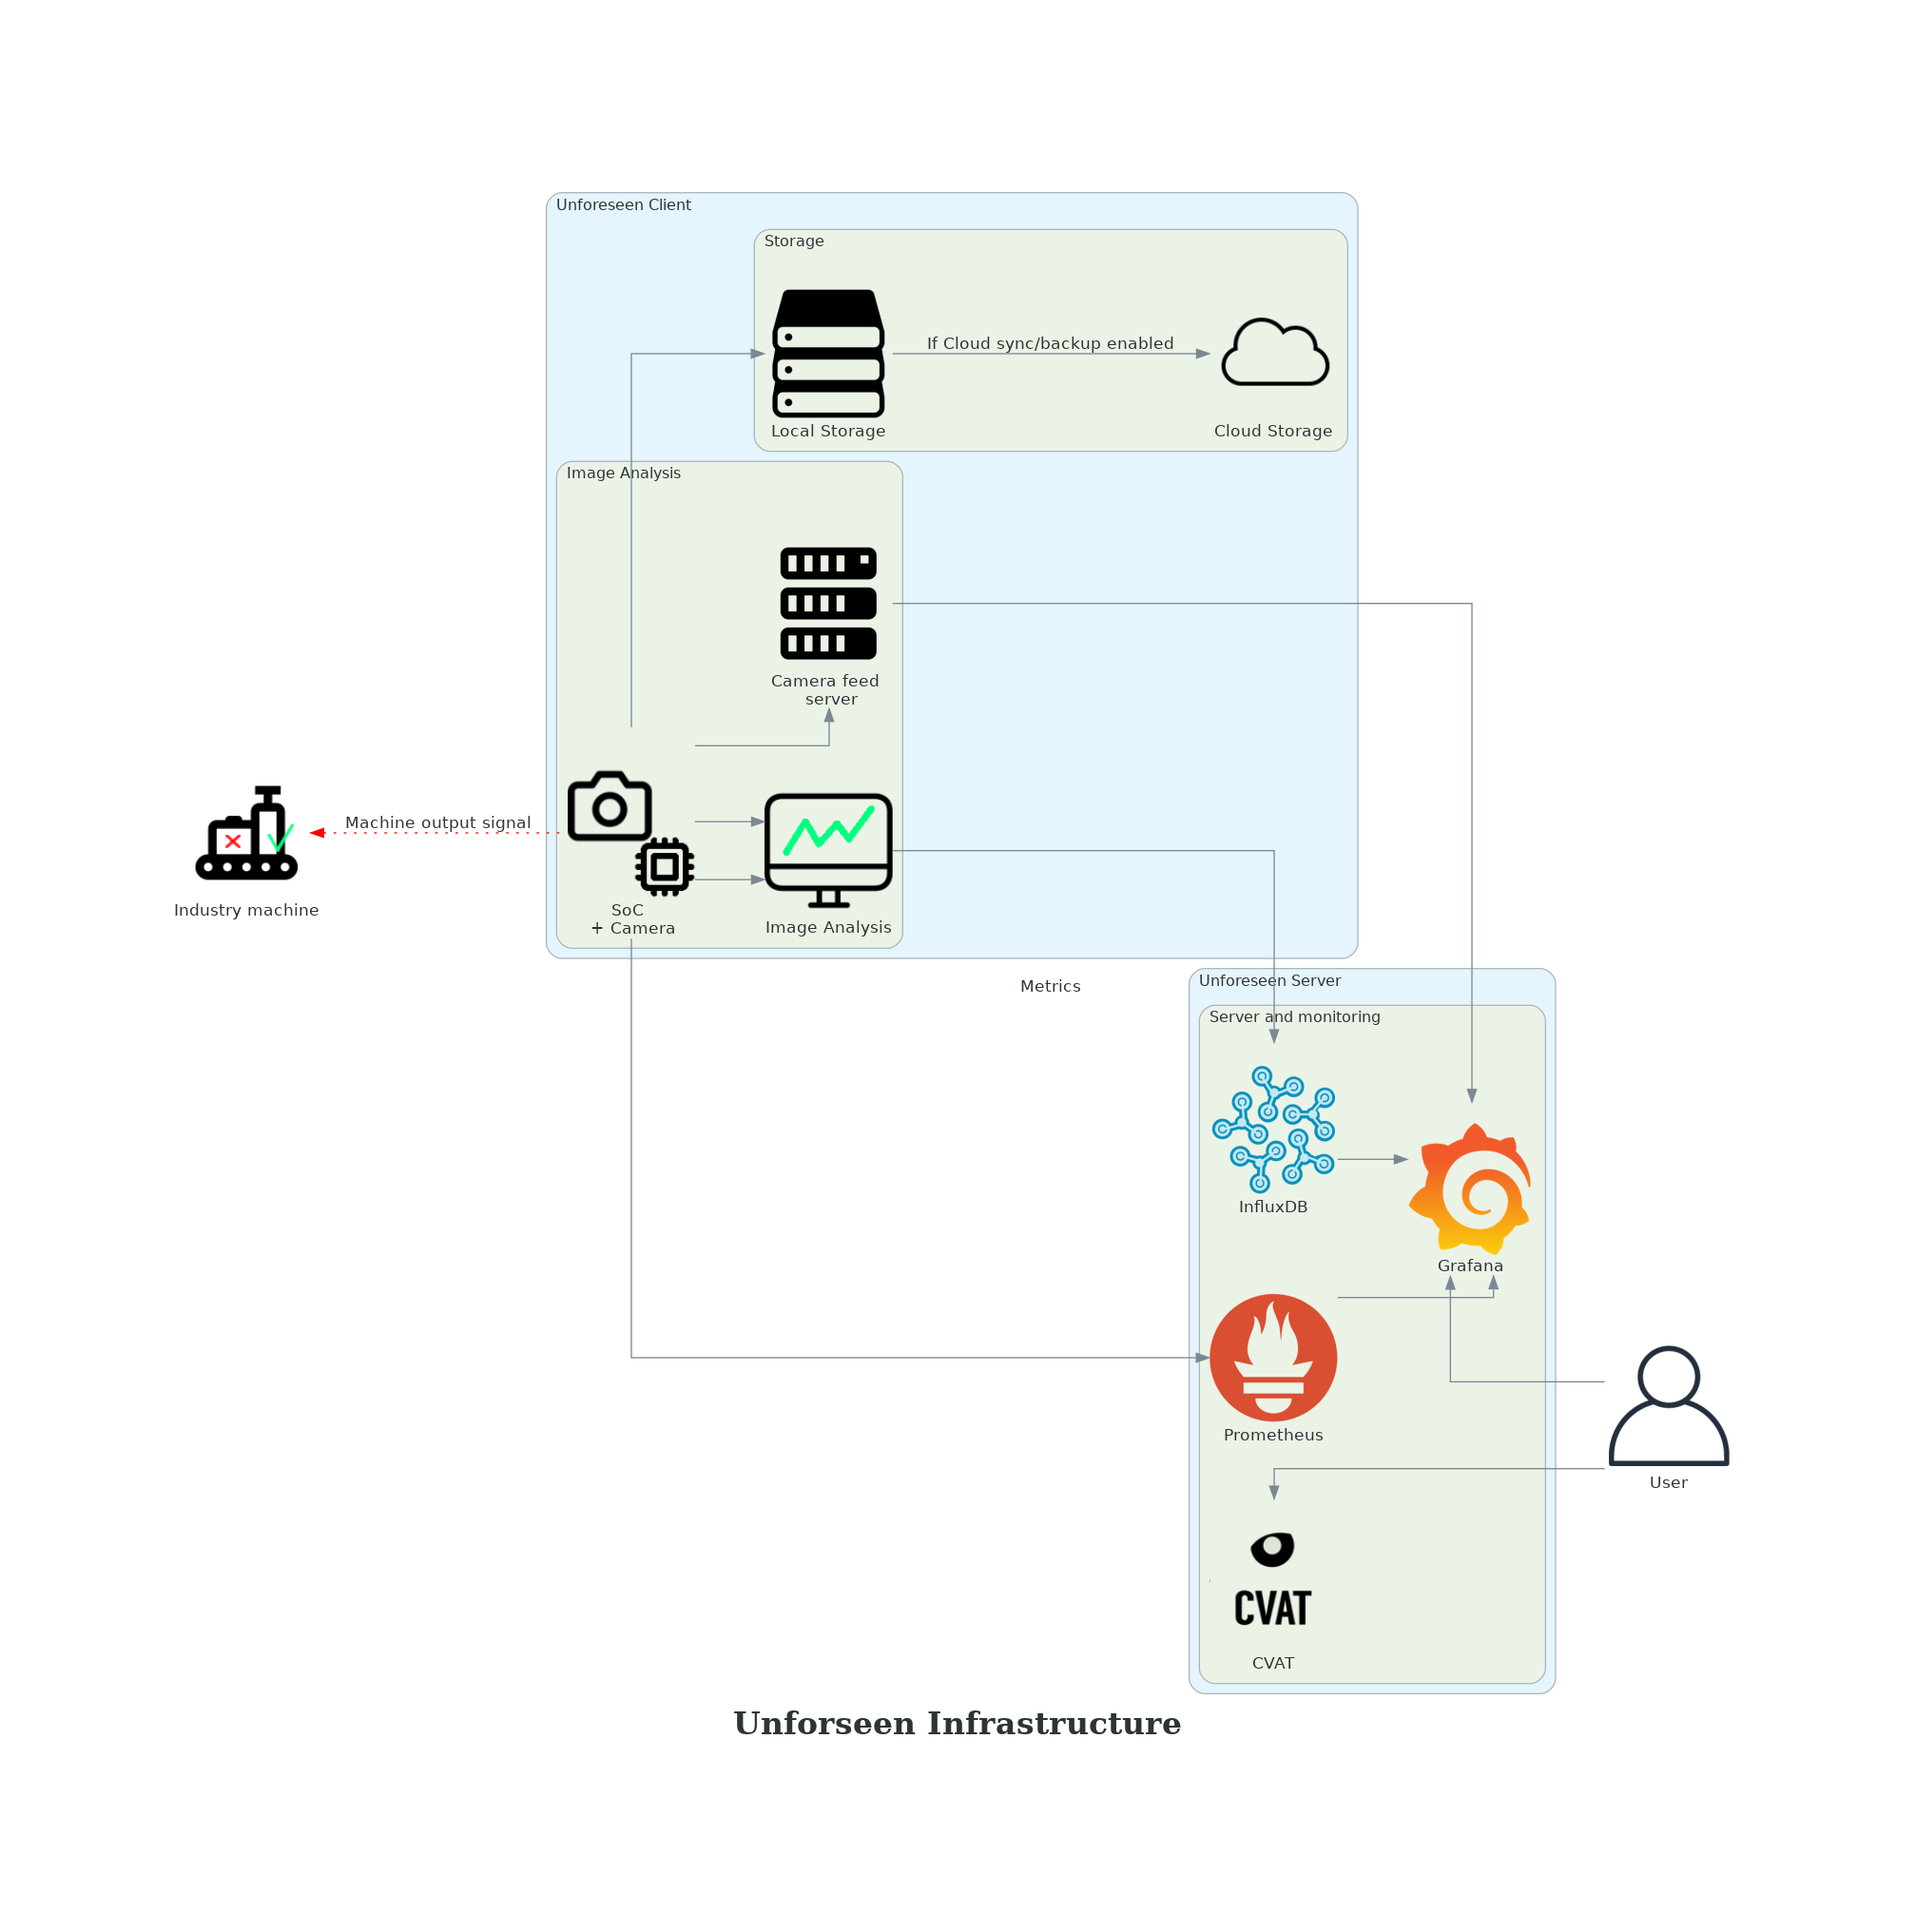
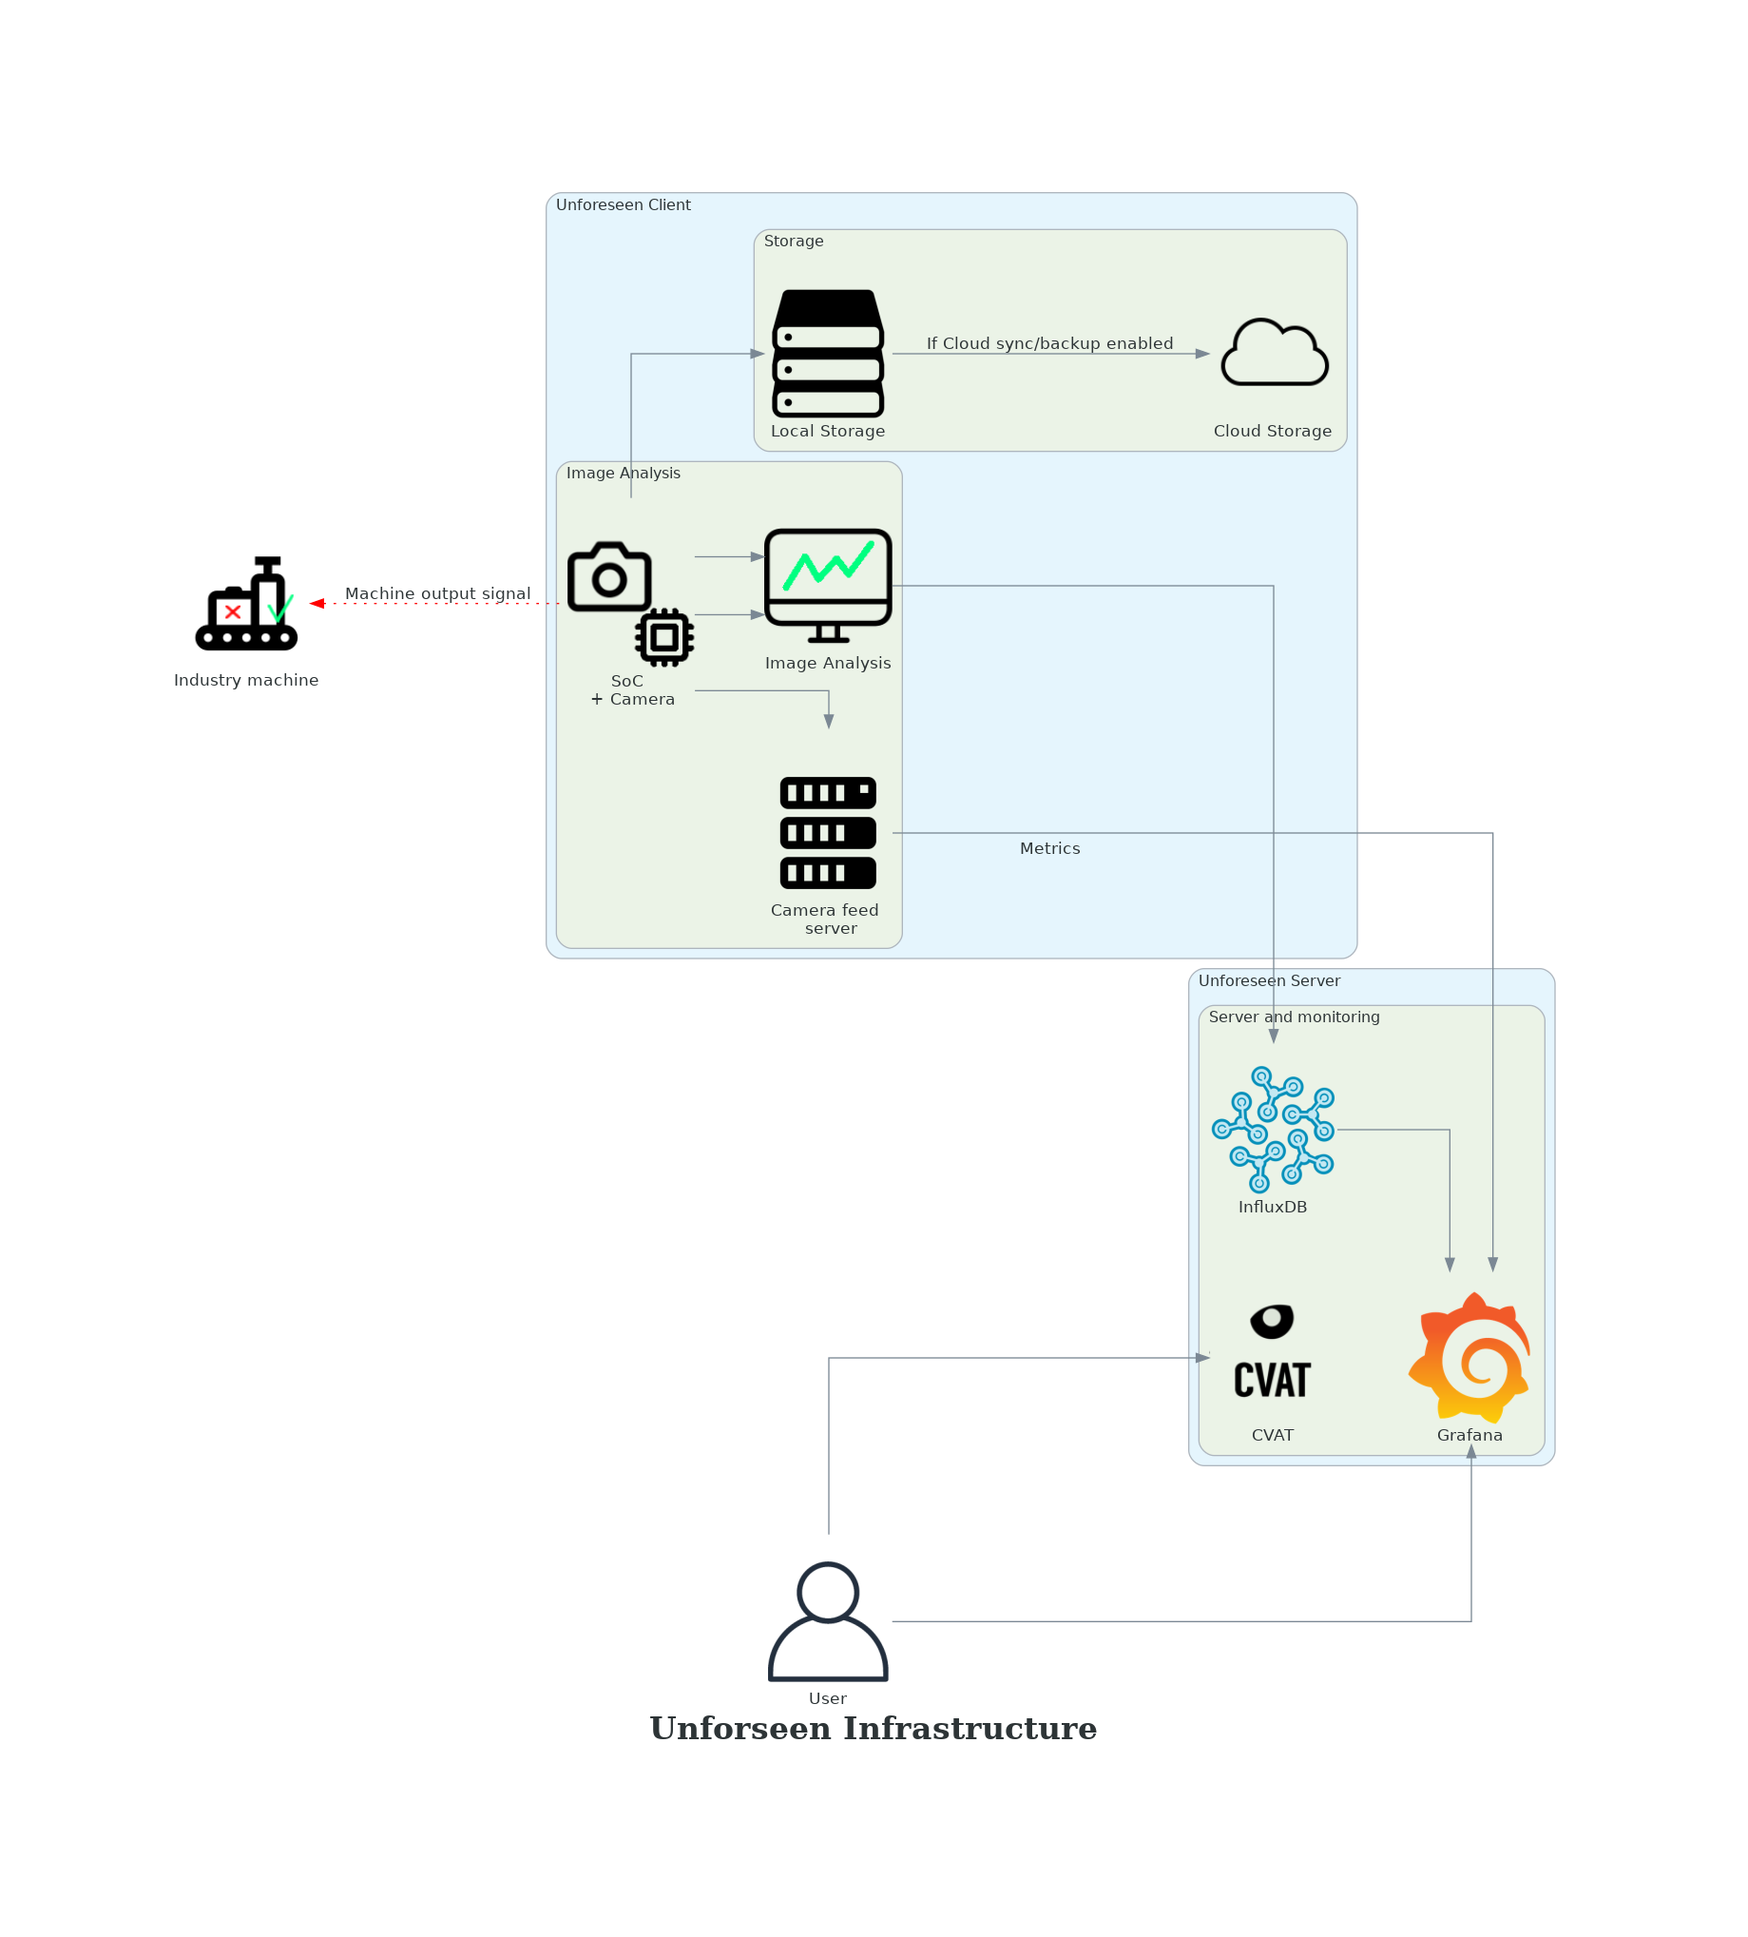
removed prometheus

Changed region(s): [[0.279, 0.093, 0.8989, 0.8991], [0.093, 0.279, 0.186, 0.341], [0.093, 0.4031, 0.155, 0.4651]]

diff --git a/diagram/diagram.py b/diagram/diagram.py
@@ -35,7 +35,6 @@ for outputformat in ["png"]:
             with Cluster("Server and monitoring"):
                 grafana = Grafana("Grafana")
                 influxdb = InfluxDB("InfluxDB")
-                prometheus = Prometheus("Prometheus")	
                 cvat = Custom("CVAT", cvat_icon)
 
         with Cluster("Unforeseen Client"):
@@ -61,8 +60,6 @@ for outputformat in ["png"]:
         events >> Edge(label="Metrics") >> influxdb
         device >> events
         device >> events
-        device >> prometheus
-        prometheus >> grafana
         user >> cvat
         #grafana << ansible
         #ansible << github
